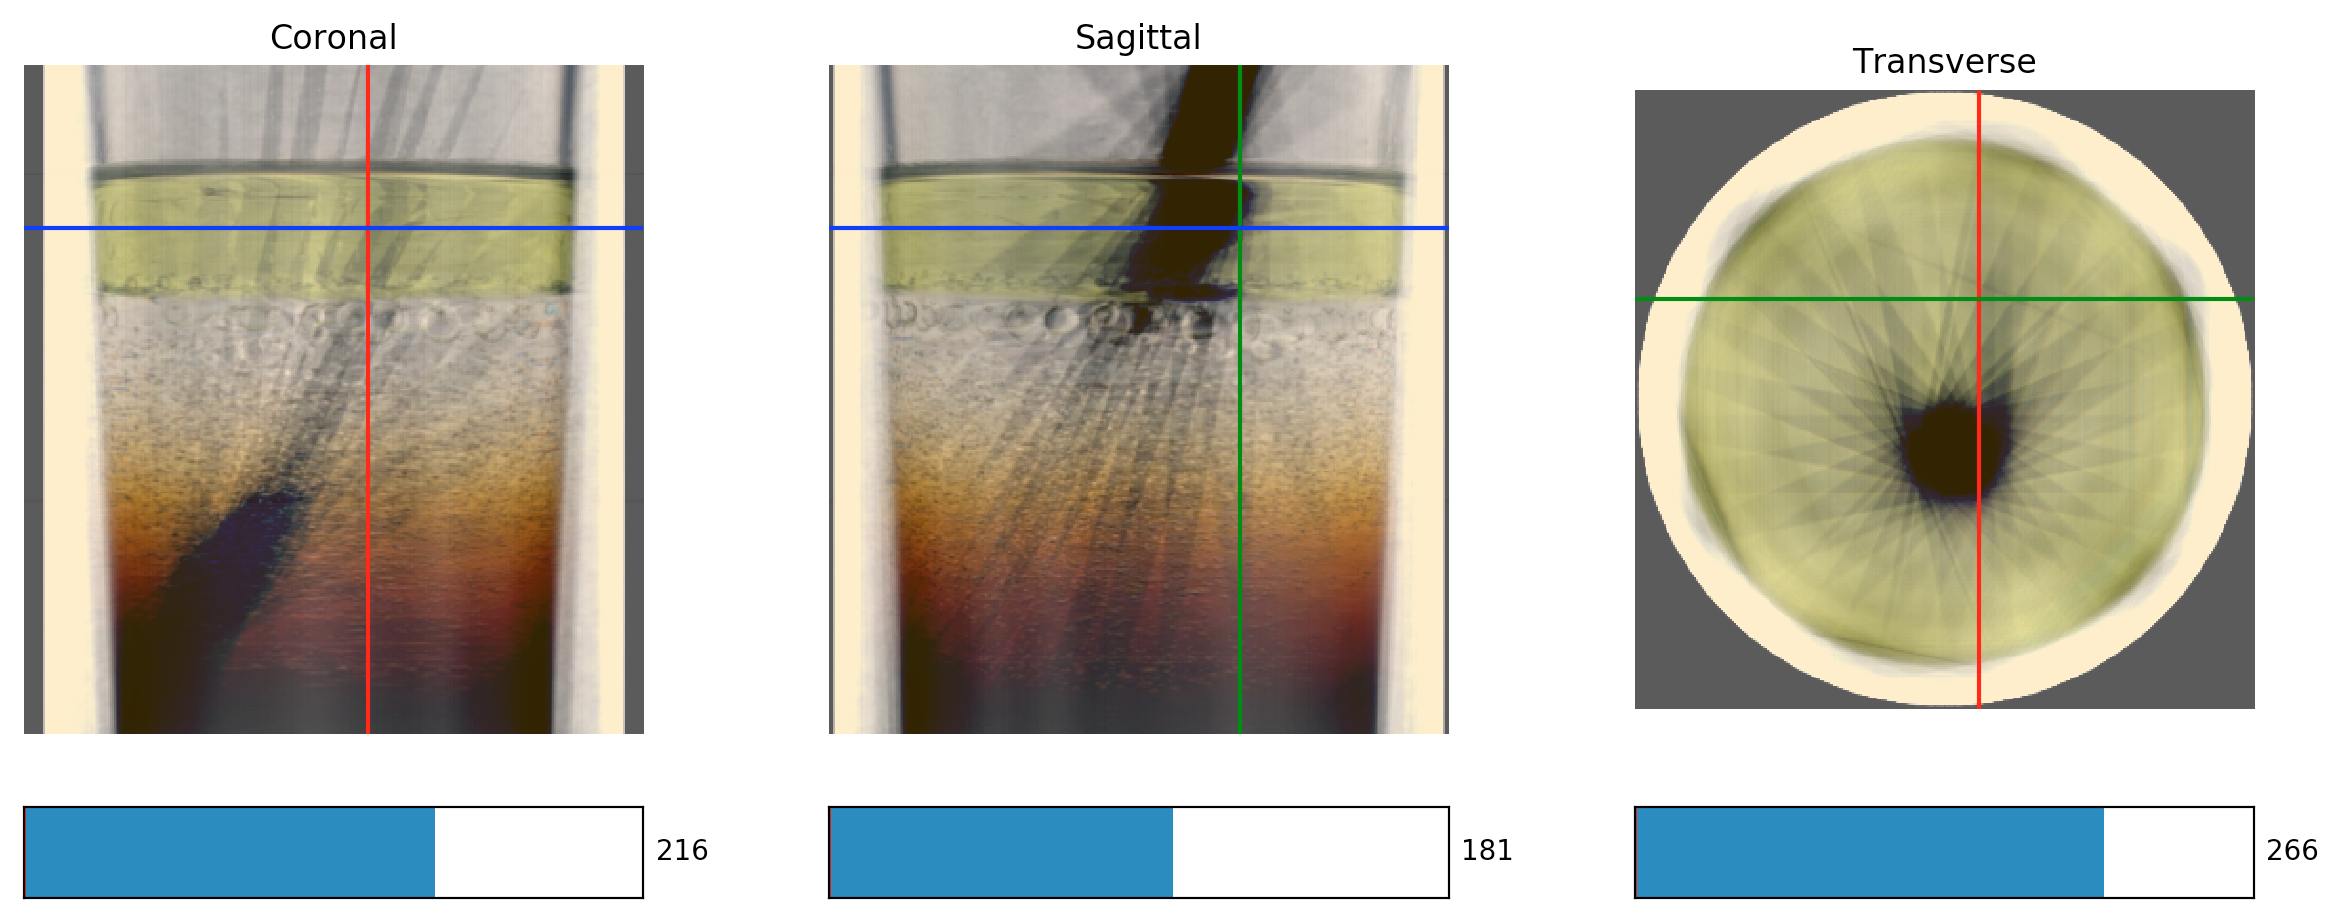
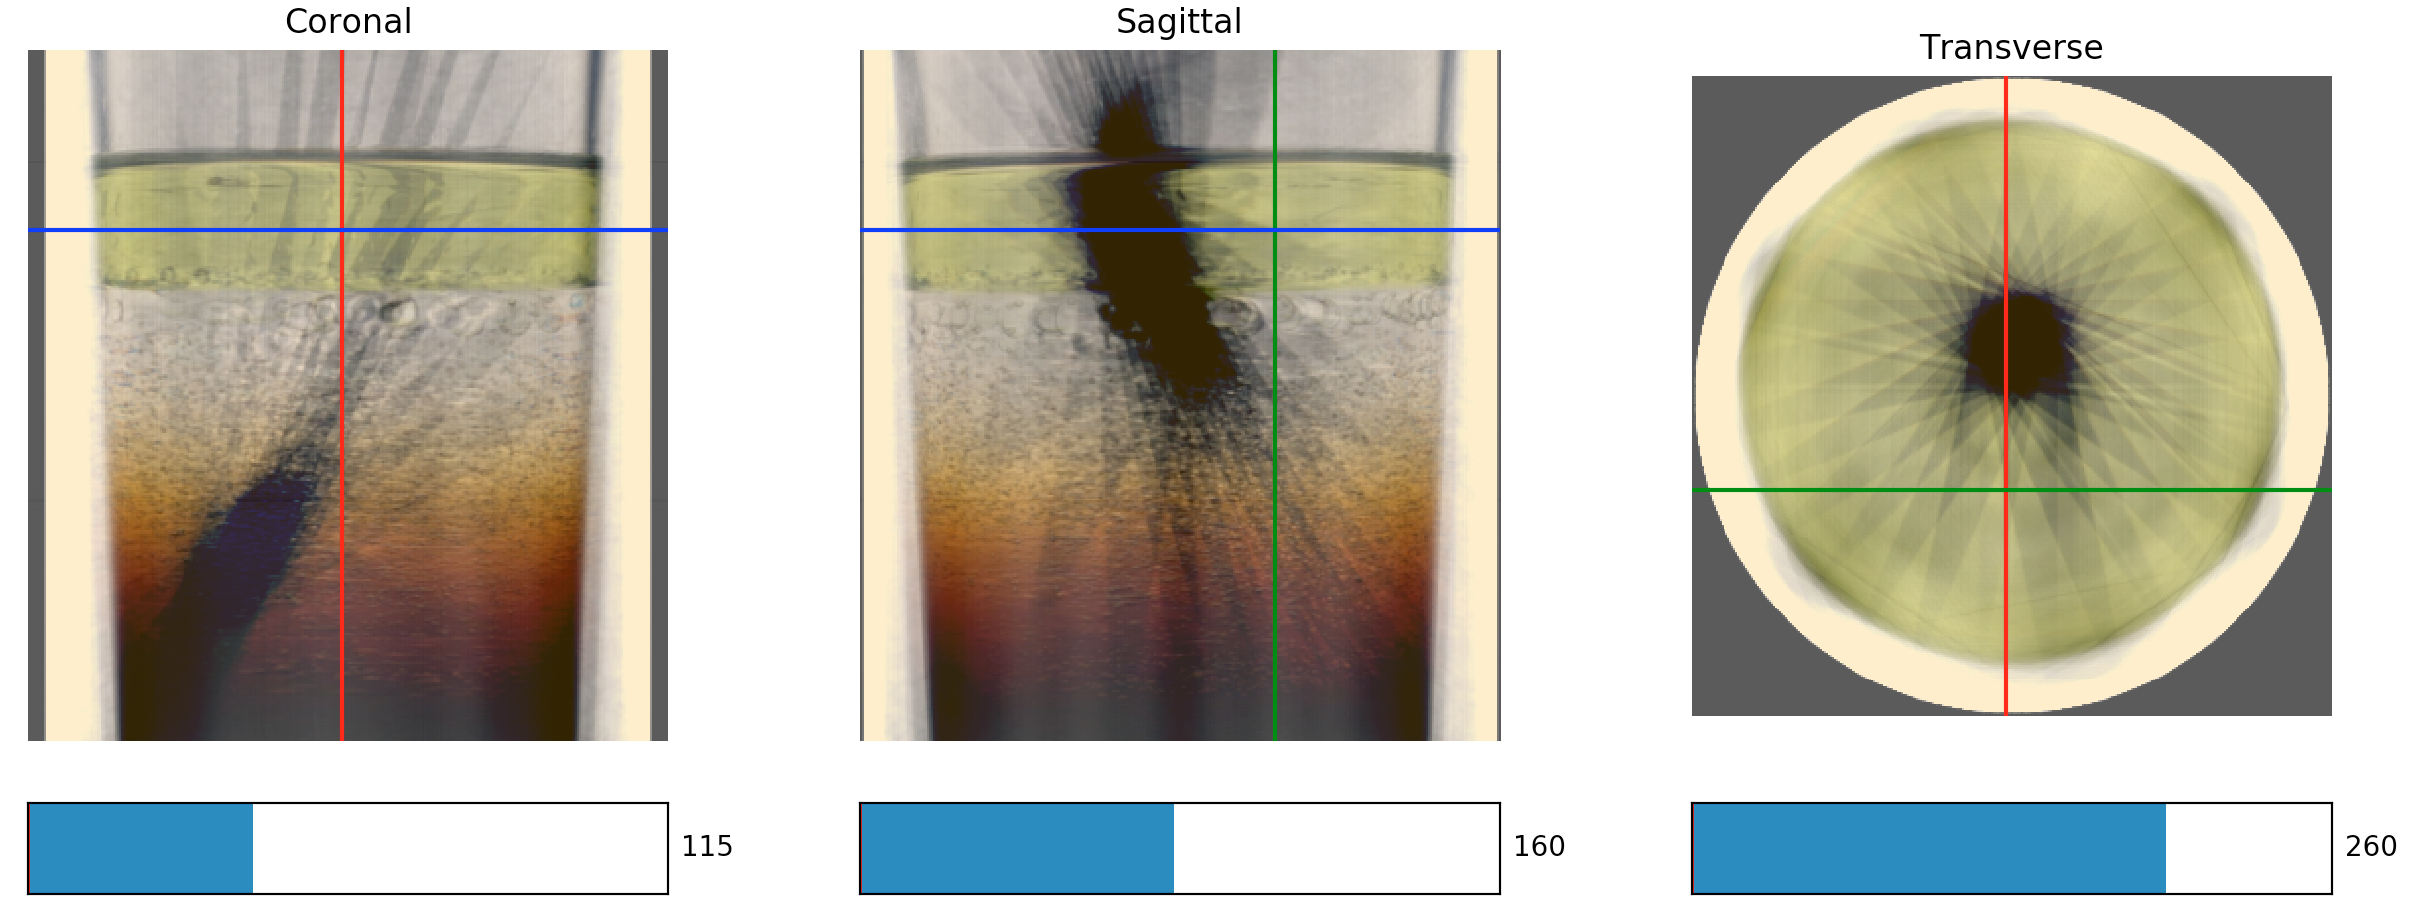
Fix crosshairs, update example image

diff --git a/volume_explorer.py b/volume_explorer.py
@@ -66,11 +66,11 @@ class VolumeExplorer:
 
         # Initialize navigation crosshairs
         self._cor_vline = self._cor_ax.axvline(0, color='r')
-        self._cor_hline = self._cor_ax.axhline(0, color='b')
-        self._sag_vline = self._sag_ax.axvline(0, color='g')
-        self._sag_hline = self._sag_ax.axhline(0, color='b')
+        self._cor_hline = self._cor_ax.axhline(self._volume.shape[2] - 1, color='b')
+        self._sag_vline = self._sag_ax.axvline(self._volume.shape[0] - 1, color='g')
+        self._sag_hline = self._sag_ax.axhline(self._volume.shape[2] - 1, color='b')
         self._trans_vline = self._trans_ax.axvline(0, color='r')
-        self._trans_hline = self._trans_ax.axhline(0, color='g')
+        self._trans_hline = self._trans_ax.axhline(self._volume.shape[0] - 1, color='g')
 
     @staticmethod
     def from_directory(directory):
@@ -93,9 +93,9 @@ class VolumeExplorer:
 
     def _update_cor(self, idx):
         idx -= 1
-        self._cor_img.set_data(coronal(self._volume, self._volume.shape[0] - int(idx)))  # reverse to match orientation
-        self._sag_vline.set_xdata(idx)
-        self._trans_hline.set_ydata(idx)
+        self._cor_img.set_data(coronal(self._volume, self._volume.shape[0] - 1 - int(idx)))  # reverse to match orientation
+        self._sag_vline.set_xdata(self._volume.shape[0] - 1 - idx)
+        self._trans_hline.set_ydata(self._volume.shape[0] - 1 - idx)  # reverse to match orientation
         self._draw()
 
     def _update_sag(self, idx):
@@ -108,8 +108,8 @@ class VolumeExplorer:
     def _update_trans(self, idx):
         idx -= 1
         self._trans_img.set_data(transverse(self._volume, int(idx)))
-        self._cor_hline.set_ydata(idx)
-        self._sag_hline.set_ydata(idx)
+        self._cor_hline.set_ydata(self._volume.shape[2] - 1 - idx)  # reverse to match orientation
+        self._sag_hline.set_ydata(self._volume.shape[2] - 1 - idx)
         self._draw()
 
     def _draw(self):
